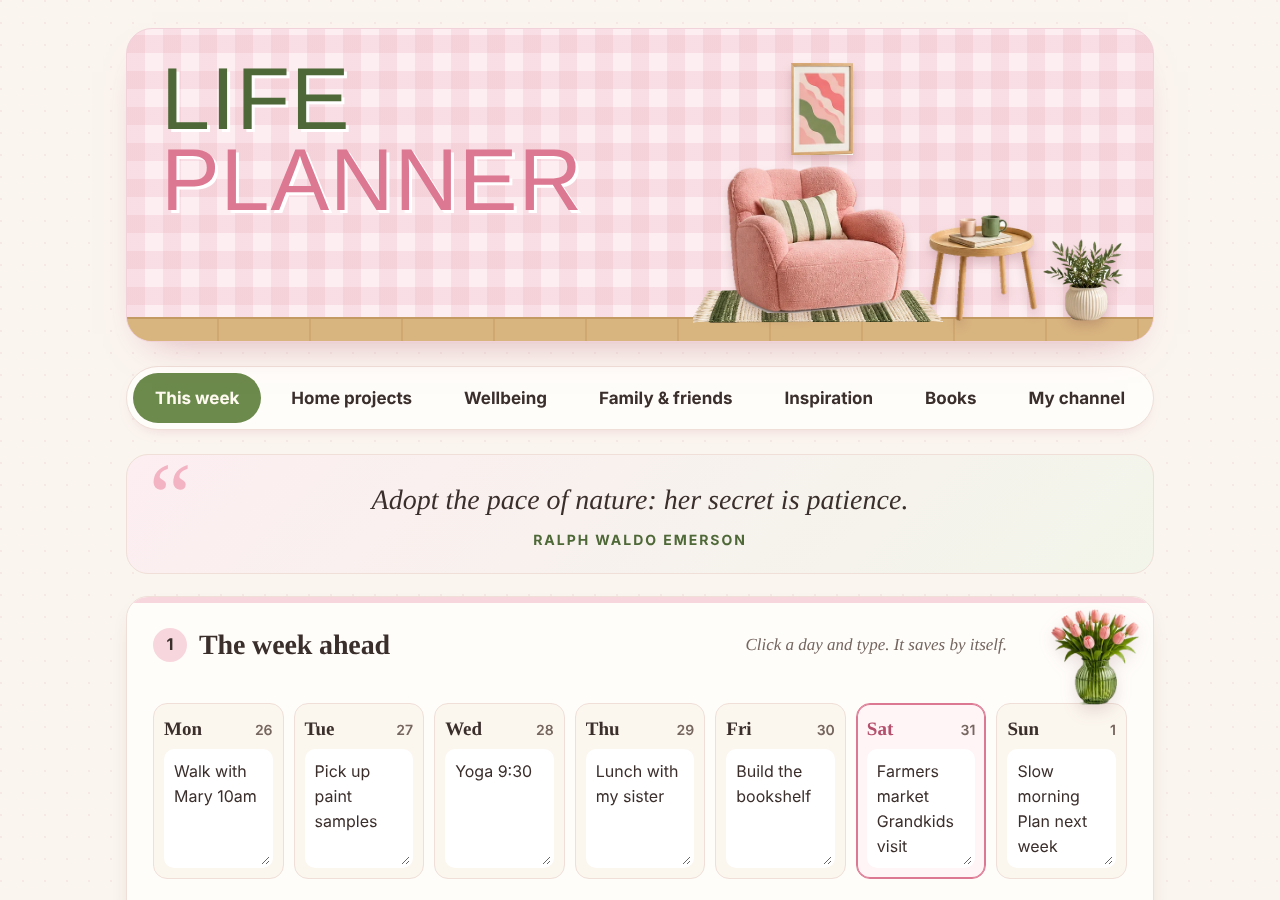
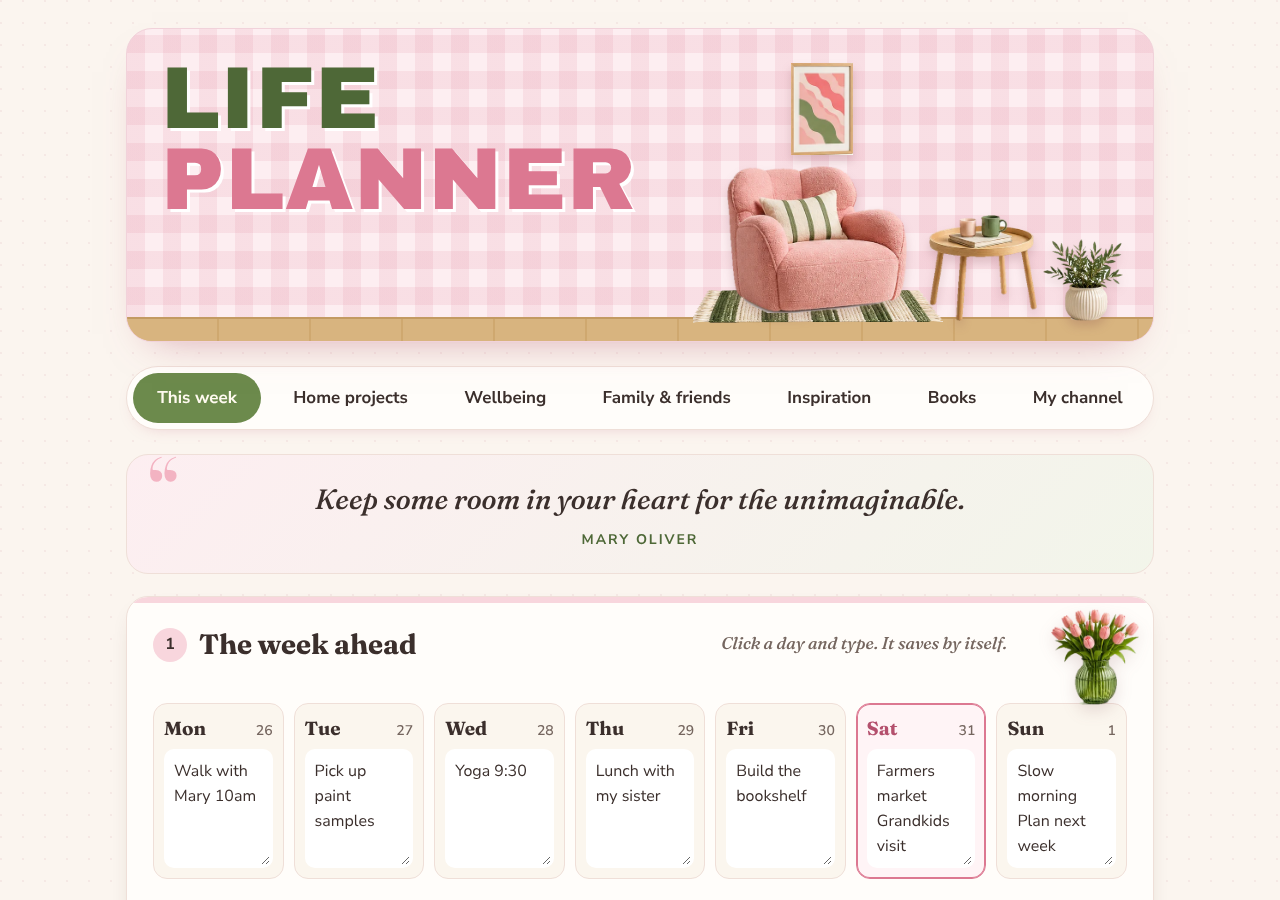
Studio: flower cards in Inspiration and more quotes
- Flowers & colours: each card shows a drawn flower (tulip, peony, rose,
  daisy, hydrangea, lavender) in the chosen colour, or an uploaded photo
- Eight more quotes for the quote of the day, added once to existing
  planners; fix the quotes panel nesting

Claude-Session: https://claude.ai/code/session_01ED3dfkgLxSrK1wkukGmhnx

diff --git a/themes/studio.html b/themes/studio.html
@@ -376,6 +376,15 @@ body { background-color: var(--paper); background-image: radial-gradient(circle 
 .v-table { width: 108px; left: 236px; bottom: 6px; }
 .v-olive { width: 80px; left: 350px; bottom: 6px; }
 @media (max-width: 760px) { .vignette { width: 430px; height: 268px; } }
+.swatches { grid-template-columns: repeat(auto-fill, minmax(150px, 1fr)); gap: 16px; }
+.swatch { border-radius: 18px; }
+.swatch .col { display: grid; place-items: center; height: 150px; cursor: pointer; overflow: hidden; }
+.swatch .col svg { width: 92px; height: 108px; filter: drop-shadow(0 4px 4px rgba(90,50,60,.15)); }
+.swatch .col img { width: 100%; height: 100%; object-fit: cover; display: block; }
+.swatch .nm { display: flex; gap: 10px; align-items: center; padding: 10px 12px; font-size: 16px; }
+.swatch .nm small { text-transform: none; font-size: 13px; }
+.swatch .dot { flex: none; width: 22px; height: 22px; border-radius: 50%; border: 2px solid #fff; box-shadow: 0 0 0 1px var(--line); }
+@media (max-width: 560px) { .swatches { grid-template-columns: repeat(2, minmax(0, 1fr)); } }
 </style>
 </head>
 <body>
@@ -561,19 +570,20 @@ body { background-color: var(--paper); background-image: radial-gradient(circle 
   <section class="view" id="view-ideas" role="tabpanel" hidden>
     <div class="panel has-deco" style="--c: var(--blush)">
[1 lines of base64/hex data omitted]
-      <div class="panel-head"><h2><span class="step">1</span>Colours I love</h2><span class="hint">Pick a colour and give it a name</span></div>
+      <div class="panel-head"><h2><span class="step">1</span>Flowers &amp; colours I love</h2><span class="hint">Pick a flower and its colour, or add your own photo</span></div>
       <div class="swatches" id="swatches"></div>
       <form class="addrow" id="swatchForm">
+        <select class="field sm" id="swFlower" aria-label="Flower"><option>Tulip</option><option>Peony</option><option>Rose</option><option>Daisy</option><option>Hydrangea</option><option>Lavender</option></select>
         <input class="field" type="color" id="swColor" value="#e8a0b4" aria-label="Colour">
-        <input class="field" id="swName" placeholder="Name, e.g. Peony" aria-label="Colour name">
+        <input class="field" id="swName" placeholder="Name, e.g. Blush peony" aria-label="Name">
         <input class="field sm" id="swRoom" placeholder="For which room" aria-label="Room">
+        <label class="btn ghost filebtn">Photo<input type="file" id="swPhoto" accept="image/*" hidden></label>
         <button class="btn" type="submit">Add</button>
       </form>
+      <span class="saved" id="swMsg"></span>
     </div>
-    <div class="panel has-deco" style="--c: var(--sage)">
[1 lines of base64/hex data omitted]
-      <div class="panel" style="--c: var(--pinky)">
-      <div class="panel-head"><h2><span class="step">2</span>Favourite quotes</h2><span class="hint">One shows on This week each day</span></div>
+    <div class="panel" style="--c: var(--pinky)">
+      <div class="panel-head"><h2><span class="step">2</span>Favourite quotes</h2><span class="hint">One shows on your homepage each day</span></div>
       <ul class="list" id="list-quotes"></ul>
       <form class="addrow" data-add="quotes">
         <input class="field" name="title" placeholder="A quote you love" aria-label="Quote" required>
@@ -581,7 +591,9 @@ body { background-color: var(--paper); background-image: radial-gradient(circle 
         <button class="btn" type="submit">Add</button>
       </form>
     </div>
-    <div class="panel-head"><h2><span class="step">3</span>Ideas &amp; finds</h2><span class="hint">Things you saw and loved. Paste a link if you have one.</span></div>
+    <div class="panel has-deco" style="--c: var(--sage)">
[1 lines of base64/hex data omitted]
+      <div class="panel-head"><h2><span class="step">3</span>Ideas &amp; finds</h2><span class="hint">Things you saw and loved. Paste a link if you have one.</span></div>
       <ul class="list" id="list-ideas"></ul>
       <form class="addrow" data-add="ideas">
         <input class="field" name="title" placeholder="Idea, e.g. Pink lamp for the reading corner" aria-label="Idea" required>
@@ -707,6 +719,20 @@ body { background-color: var(--paper); background-image: radial-gradient(circle 
   var LABEL = { idea: "Idea", measuring: "Measuring", shopping: "Shopping", building: "Building", done: "Done", booked: "Booked", filming: "Filming", editing: "Editing", scheduled: "Scheduled", posted: "Posted", spotted: "Spotted", want: "Want it", bought: "Bought" };
   var CHECKED = { shopping: 1, plans: 1, ideas: 0, watch: 1 };
 
+  // Extra quotes, also added once to planners saved before they existed
+  function moreQuotes() {
+    return [
+      ["The earth laughs in flowers.", "Ralph Waldo Emerson"],
+      ["If you have a garden and a library, you have everything you need.", "Cicero"],
+      ["Simplicity is the keynote of all true elegance.", "Coco Chanel"],
+      ["Home is where one starts from.", "T. S. Eliot"],
+      ["Act as if what you do makes a difference. It does.", "William James"],
+      ["Keep some room in your heart for the unimaginable.", "Mary Oliver"],
+      ["Not all those who wander are lost.", "J. R. R. Tolkien"],
+      ["Every day is a fresh start.", "Proverb"]
+    ].map(function (q) { return { id: uid(), title: q[0], by: q[1] }; });
+  }
+
   // Example content, so the page isn't empty the first time. "Start fresh" clears it.
   function examples() {
     return {
@@ -747,7 +773,7 @@ body { background-color: var(--paper); background-image: radial-gradient(circle 
         { id: uid(), title: "Adopt the pace of nature: her secret is patience.", by: "Ralph Waldo Emerson" },
         { id: uid(), title: "Little by little, one travels far.", by: "Proverb" },
         { id: uid(), title: "Bloom where you are planted.", by: "Proverb" }
-      ],
+      ].concat(moreQuotes()),
       medits: [
         { id: uid(), date: iso(monday), mins: "10", title: "Morning breathing" },
         { id: uid(), date: plus(-1), mins: "20", title: "Body scan before bed" }
@@ -765,10 +791,12 @@ body { background-color: var(--paper); background-image: radial-gradient(circle 
         { id: uid(), title: "Coffee with the book club", date: plus(3), done: false }
       ],
       swatches: [
-        { id: uid(), color: "#f4c7d1", name: "Peony", room: "Bedroom" },
-        { id: uid(), color: "#c9516f", name: "Raspberry", room: "Front door" },
-        { id: uid(), color: "#e9dcc6", name: "Birch", room: "Hallway" },
-        { id: uid(), color: "#a9bfa4", name: "Sage", room: "Kitchen" }
+        { id: uid(), flower: "Peony", color: "#f2a9bb", name: "Blush peony", room: "Bedroom" },
+        { id: uid(), flower: "Tulip", color: "#e2728f", name: "Tulip pink", room: "Front door" },
+        { id: uid(), flower: "Hydrangea", color: "#b9b4e3", name: "Hydrangea", room: "Hallway" },
+        { id: uid(), flower: "Rose", color: "#d9536f", name: "Garden rose", room: "Living room" },
+        { id: uid(), flower: "Daisy", color: "#fbf3df", name: "Daisy cream", room: "Kitchen" },
+        { id: uid(), flower: "Lavender", color: "#a58fd0", name: "Lavender", room: "Bathroom" }
       ],
       ideas: [
         { id: uid(), title: "Scalloped lampshade for the reading corner", link: "" },
@@ -812,6 +840,11 @@ body { background-color: var(--paper); background-image: radial-gradient(circle 
   if (!state) state = examples();
   // Fill in any sections added in a newer version of this file
   (function () { var ex = examples(); for (var k in ex) if (state[k] === undefined) state[k] = ex[k]; })();
+  if (!state.moreQuotes) {
+    var have = state.quotes.map(function (q) { return q.title; });
+    moreQuotes().forEach(function (q) { if (have.indexOf(q.title) < 0) state.quotes.push(q); });
+    state.moreQuotes = 1;
+  }
   function save() { try { localStorage.setItem(KEY, JSON.stringify(state)); } catch (e) {} }
   function esc(s) { return String(s == null ? "" : s).replace(/[&<>"]/g, function (c) { return { "&": "&amp;", "<": "&lt;", ">": "&gt;", '"': "&quot;" }[c]; }); }
   function $(s) { return document.querySelector(s); }
@@ -1027,19 +1060,46 @@ body { background-color: var(--paper); background-image: radial-gradient(circle 
   }
 
   /* Colours */
+  // Little flower drawings, coloured with the chosen colour
+  function shade(hex, amt) {
+    var n = parseInt(String(hex).replace("#", ""), 16); if (isNaN(n)) n = 0xe8a0b4;
+    var r = n >> 16, g = (n >> 8) & 255, b = n & 255, t = amt < 0 ? 0 : 255, p = Math.abs(amt);
+    return "rgb(" + Math.round(r + (t - r) * p) + "," + Math.round(g + (t - g) * p) + "," + Math.round(b + (t - b) * p) + ")";
+  }
+  function flowerSVG(kind, c) {
+    var d = shade(c, -0.22), l = shade(c, 0.35), leaf = "#6c8a4c", stem = '<path d="M50 60 V112" stroke="' + leaf + '" stroke-width="4" stroke-linecap="round"/>', g = "";
+    var leaves = '<path d="M50 96 C34 92 28 80 30 72 C42 76 49 84 50 96Z M50 88 C64 84 72 74 70 66 C58 70 51 78 50 88Z" fill="' + leaf + '"/>';
+    if (kind === "Tulip") g = stem + leaves + '<path d="M30 30 C30 52 38 64 50 64 C62 64 70 52 70 30 L60 40 L50 24 L40 40 Z" fill="' + c + '"/><path d="M40 40 L50 24 L60 40 C58 54 54 62 50 64 C46 62 42 54 40 40Z" fill="' + d + '" opacity=".45"/>';
+    else if (kind === "Daisy") { g = stem + leaves; for (var i = 0; i < 12; i++) g += '<ellipse cx="50" cy="22" rx="6" ry="15" fill="' + c + '" stroke="' + d + '" stroke-width="1" transform="rotate(' + i * 30 + ' 50 38)"/>'; g += '<circle cx="50" cy="38" r="9" fill="#f0c840"/>'; }
+    else if (kind === "Rose") g = stem + leaves + '<circle cx="50" cy="38" r="24" fill="' + c + '"/><path d="M50 38 m-4 0 a4 4 0 1 1 8 0 a8 8 0 1 1 -16 0 a12 12 0 1 1 24 0 a16 16 0 1 1 -32 0" fill="none" stroke="' + d + '" stroke-width="2.4" stroke-linecap="round"/>';
+    else if (kind === "Peony") { g = stem + leaves; [[50,40,26,d],[38,34,15,c],[62,34,15,c],[50,24,15,c],[42,46,14,l],[58,46,14,l],[50,38,11,c],[50,36,6,l]].forEach(function (q) { g += '<circle cx="' + q[0] + '" cy="' + q[1] + '" r="' + q[2] + '" fill="' + q[3] + '"/>'; }); }
+    else if (kind === "Hydrangea") { g = stem + leaves; [[50,22],[36,28],[64,28],[30,42],[70,42],[43,38],[57,38],[50,50],[38,52],[62,52],[50,34]].forEach(function (q, i) { var f = i % 3 ? c : d; g += '<g transform="translate(' + q[0] + " " + q[1] + ')"><circle cx="-4" cy="0" r="4.5" fill="' + f + '"/><circle cx="4" cy="0" r="4.5" fill="' + f + '"/><circle cx="0" cy="-4" r="4.5" fill="' + f + '"/><circle cx="0" cy="4" r="4.5" fill="' + f + '"/><circle r="1.6" fill="' + l + '"/></g>'; }); }
+    else { g = '<path d="M50 30 V112" stroke="' + leaf + '" stroke-width="3" stroke-linecap="round"/><path d="M50 100 C40 96 36 88 38 82 C46 86 50 92 50 100Z" fill="' + leaf + '"/>'; for (var j = 0; j < 9; j++) { var y = 14 + j * 7; g += '<ellipse cx="' + (j % 2 ? 54 : 46) + '" cy="' + y + '" rx="5" ry="6" fill="' + (j % 3 ? c : d) + '"/>'; } }
+    return '<svg viewBox="0 0 100 116" aria-hidden="true">' + g + "</svg>";
+  }
+  var FLOWERS = ["Tulip", "Peony", "Rose", "Daisy", "Hydrangea", "Lavender"];
+  function guessFlower(w) { var n = (w.name || "").toLowerCase(); for (var i = 0; i < FLOWERS.length; i++) if (n.indexOf(FLOWERS[i].toLowerCase()) >= 0) return FLOWERS[i]; return "Tulip"; }
   function renderSwatches() {
     var box = $("#swatches");
-    box.innerHTML = state.swatches.length ? "" : '<p class="empty">No colours yet.</p>';
+    box.innerHTML = state.swatches.length ? "" : '<p class="empty">No flowers yet.</p>';
     state.swatches.forEach(function (w) {
       var el = document.createElement("div"); el.className = "swatch";
-      el.innerHTML = '<div class="col" style="background:' + esc(w.color) + '"></div><div class="nm">' + esc(w.name || "Untitled") + "<small>" + esc(w.room || w.color) + '</small></div><button class="x" aria-label="Remove">×</button>';
+      var kind = w.flower || guessFlower(w);
+      var art = w.photo ? '<img src="' + esc(w.photo) + '" alt="' + esc(w.name || kind) + '">' : flowerSVG(kind, w.color);
+      el.innerHTML = '<label class="col" title="Click to add a photo" style="background:' + shade(w.color, 0.78) + '">' + art + '<input type="file" accept="image/*" hidden></label>' +
+        '<div class="nm"><span class="dot" style="background:' + esc(w.color) + '"></span><span>' + esc(w.name || kind) + "<small>" + esc(w.room || kind) + "</small></span></div>" +
+        '<button class="x" aria-label="Remove">×</button>';
+      el.querySelector(".col input").addEventListener("change", function () { if (this.files[0]) shrink(this.files[0], function (d) { w.photo = d; save(); renderSwatches(); }); });
       el.querySelector(".x").addEventListener("click", function () { state.swatches = state.swatches.filter(function (x) { return x !== w; }); save(); renderSwatches(); });
       box.appendChild(el);
     });
   }
+  var pendingFlower = "";
+  $("#swPhoto").addEventListener("change", function () { if (this.files[0]) shrink(this.files[0], function (d) { pendingFlower = d; $("#swMsg").textContent = "Photo added. Now click Add."; }); });
   $("#swatchForm").addEventListener("submit", function (e) {
     e.preventDefault();
-    state.swatches.push({ id: uid(), color: $("#swColor").value, name: $("#swName").value.trim(), room: $("#swRoom").value.trim() });
+    state.swatches.push({ id: uid(), flower: $("#swFlower").value, color: $("#swColor").value, name: $("#swName").value.trim(), room: $("#swRoom").value.trim(), photo: pendingFlower });
+    pendingFlower = ""; $("#swPhoto").value = ""; $("#swMsg").textContent = "";
     $("#swName").value = ""; $("#swRoom").value = ""; save(); renderSwatches();
   });
 
@@ -1130,7 +1190,7 @@ body { background-color: var(--paper); background-image: radial-gradient(circle 
     var a = e.target.closest("[data-act]"); if (!a) return;
     if (a.dataset.act === "reset") {
       if (a.dataset.armed) {
-        state = { week: {}, weekSeed: null, todos: [], projects: [], shopping: [], measures: [], moves: [], medits: [], quotes: [], books: [], appts: [], birthdays: [], plans: [], swatches: [], ideas: [], journal: {}, uploads: [], watch: [], channels: [], tries: [], postDay: state.postDay };
+        state = { moreQuotes: 1, week: {}, weekSeed: null, todos: [], projects: [], shopping: [], measures: [], moves: [], medits: [], quotes: [], books: [], appts: [], birthdays: [], plans: [], swatches: [], ideas: [], journal: {}, uploads: [], watch: [], channels: [], tries: [], postDay: state.postDay };
         save(); renderWeek(); renderTodos(); renderAll(); jDay = iso(today); renderJournal();
         a.textContent = "Start fresh"; delete a.dataset.armed;
       } else { a.dataset.armed = "1"; a.textContent = "Click again to clear everything"; setTimeout(function () { a.textContent = "Start fresh"; delete a.dataset.armed; }, 4000); }

diff --git a/README.md b/README.md
@@ -7,7 +7,7 @@ A free, pretty planner for your week, your goals and the things you care about. 
 | Girly Pop | Arcade | Studio |
 |---|---|---|
 | ![Girly Pop preview](themes/previews/girly-pop.png) | ![Arcade preview](themes/previews/arcade.png) | ![Studio preview](themes/previews/studio.png) |
-| Pink 2000s glam: cut-out letters, sparkles and a flip-phone screen. Tabs for your week, goals, job search, fitness and creative projects. | Dark gaming style with neon colours. Earn XP by ticking things off. Made for a student: week, uni deadlines, work, clubs and gym. | Refined and decor-loving: blush pink, sage green, cream and oak, with cosy decor pictures and big easy-to-read text. Week, home projects, wellbeing, family and friends, a colour mood board, wellbeing with walks, meditation and a journal, favourite quotes, a book tracker with covers and ratings, and a "My channel" tab for YouTube creators: posting calendar, video pipeline, watch later and favourite channels. |
+| Pink 2000s glam: cut-out letters, sparkles and a flip-phone screen. Tabs for your week, goals, job search, fitness and creative projects. | Dark gaming style with neon colours. Earn XP by ticking things off. Made for a student: week, uni deadlines, work, clubs and gym. | Refined and decor-loving: blush pink, sage green, cream and oak, with cosy decor pictures and big easy-to-read text. Week, home projects, wellbeing, family and friends, flowers and colours she loves, wellbeing with walks, meditation and a journal, favourite quotes, a book tracker with covers and ratings, and a "My channel" tab for YouTube creators: posting calendar, video pipeline, watch later and favourite channels. |
 | [`themes/girly-pop.html`](themes/girly-pop.html) | [`themes/arcade.html`](themes/arcade.html) | [`themes/studio.html`](themes/studio.html) |
 
 Each one is a single file. They all have a 7-day week you can type into, lists you can tick off, and example content so you can see how it works.
